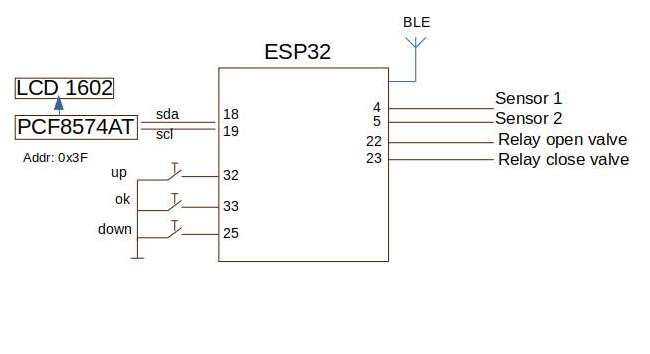
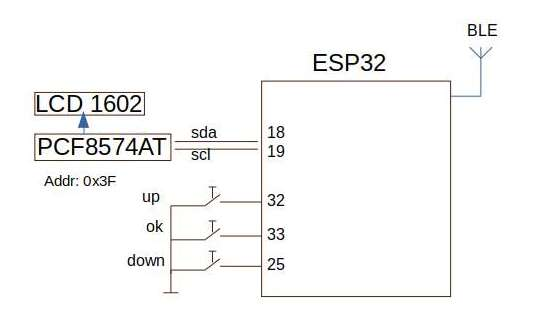
edit img and edit Lcd_display

Changed region(s): [[0.0, 0.0299, 0.9652, 0.8955], [0.1868, 0.7164, 0.2179, 0.7463]]

diff --git a/main/main.c b/main/main.c
@@ -88,7 +88,53 @@ static void IRAM_ATTR gpio_isr_handler(void* arg)
 
 
 
+void DrawMenu(uint8_t state){
+	char menuItem1[] = "Sensors";
+	char menuItem2[] = "Ball valve";
+	char menuItem3[] = "Power";
+	char menuItem4[] = "Errors";
+	char menuItem11[] = "ws1";
+	char menuItem12[] = "ws2";
+	char menuItem13[] = "bs1";
+	char menuItem14[] = "bs2";
+	char menuItem15[] = "bs3";
 
+
+	ESP_LOGI(TAG, "[DrawMenu] state = %d", state);	
+	if(state==1){
+		LCD_setCursor(0, 0);
+		LCD_writeStr(menuItem1);
+		LCD_setCursor(14, 0);
+		LCD_writeStr("<-");
+		LCD_setCursor(0, 1);
+		LCD_writeStr(menuItem2);
+	}
+	else if(state==2){
+		LCD_setCursor(0, 0);
+		LCD_writeStr(menuItem1);
+		LCD_setCursor(0, 1);
+		LCD_writeStr(menuItem2);
+		LCD_setCursor(14, 1);
+		LCD_writeStr("<-");
+	}
+	else if(state==3){
+		LCD_setCursor(0, 0);
+		LCD_writeStr(menuItem3);
+		LCD_setCursor(14, 0);
+		LCD_writeStr("<-");
+		LCD_setCursor(0, 1);
+		LCD_writeStr(menuItem4);
+	}
+	else if(state==4){
+		LCD_setCursor(0, 0);
+		LCD_writeStr(menuItem3);
+		LCD_setCursor(0, 1);
+		LCD_writeStr(menuItem4);
+		LCD_setCursor(14, 1);
+		LCD_writeStr("<-");
+	}
+
+}
 
 
 
@@ -102,17 +148,7 @@ void LCD_Display(void* param)
     uint32_t io_num;
 	portBASE_TYPE xStatusReceive;
 	uint8_t state = 1;
-	char menuItem1[] = "Sensors";
-	char menuItem2[] = "Ball valve";
-	char menuItem3[] = "Power";
-	char menuItem4[] = "Errors";
-	char menuItem11[] = "ws1";
-	char menuItem12[] = "ws2";
-	char menuItem13[] = "bs1";
-	char menuItem14[] = "bs2";
-	char menuItem15[] = "bs3";
 	uint8_t change = 1;
-	uint8_t cursor = 1;
 
 
     LCD_home();
@@ -132,13 +168,11 @@ void LCD_Display(void* param)
 			switch(io_num){
 				case 25: //down
 					gpio_set_intr_type(GPIO_DOWN, GPIO_INTR_NEGEDGE);
-					ESP_LOGI(TAG, "[LCD Display] DOWN pressed");	
-					cursor++;
+					ESP_LOGI(TAG, "[LCD Display] DOWN pressed");
 					break;
 				case 32: //up
 					gpio_set_intr_type(GPIO_UP, GPIO_INTR_NEGEDGE);
-					ESP_LOGI(TAG, "[LCD Display] UP pressed");	
-					cursor--;
+					ESP_LOGI(TAG, "[LCD Display] UP pressed");
 					break;
 				case 33: //OK
 					gpio_set_intr_type(GPIO_OK, GPIO_INTR_NEGEDGE);
@@ -146,77 +180,46 @@ void LCD_Display(void* param)
 					break;
 			}
 		}
-		if(cursor>4) cursor = 4;
-		else if (cursor<1) cursor = 1;
 
 
 		if(change){
 			LCD_clearScreen();
-			ESP_LOGI(TAG, "[LCD Display] cursor = %d", cursor);	
 			ESP_LOGI(TAG, "[LCD Display] state = %d", state);	
+			switch(state){
+				case 1:
+					if(io_num == 25) {
+						state = 2;
+					}
+					DrawMenu(state);
+					break;
+				case 2:
+					DrawMenu(state);
+					if(io_num == 25){
+				   		state = 3;
+					}
+					else if (io_num == 32){
+				   		state = 1;
+					}
+					break;
+				case 3:
+					DrawMenu(state);
+					if(io_num == 25){
+				   		state = 4;
+					}
+					else if(io_num == 32) {
+						state = 2;
+					}
+					break;
+				case 4:
+					DrawMenu(state);
+					if(io_num == 32){
+				   		state = 3;
+					}
+					break;
+			}
 			change = 0;
 		}	
 		
-
-		ESP_LOGI(TAG, "[LCD Display] state = %d", state);	
-		switch(state){
-			case 1:
-				LCD_setCursor(0, 0);
-				LCD_writeStr(menuItem1);
-				LCD_setCursor(14, 0);
-				LCD_writeStr("<-");
-				LCD_setCursor(0, 1);
-				LCD_writeStr(menuItem2);
-				if(io_num == 25) {
-					LCD_clearScreen();
-					state = 2;
-				}
-				break;
-			case 2:
-				LCD_setCursor(0, 0);
-				LCD_writeStr(menuItem1);
-				LCD_setCursor(0, 1);
-				LCD_writeStr(menuItem2);
-				LCD_setCursor(14, 1);
-				LCD_writeStr("<-");
-				if(io_num == 25){
-				   	state = 3;
-					LCD_clearScreen();
-				}
-				else if (io_num == 32){
-				   	state = 1;
-					LCD_clearScreen();
-				}
-				break;
-			case 3:
-				LCD_setCursor(0, 0);
-				LCD_writeStr(menuItem3);
-				LCD_setCursor(14, 0);
-				LCD_writeStr("<-");
-				LCD_setCursor(0, 1);
-				LCD_writeStr(menuItem4);
-				if(io_num == 25){
-				   	state = 4;
-					LCD_clearScreen();
-				}
-				else if(io_num == 32) {
-					state = 2;
-					LCD_clearScreen();
-				}
-				break;
-			case 4:
-				LCD_setCursor(0, 0);
-				LCD_writeStr(menuItem3);
-				LCD_setCursor(0, 1);
-				LCD_writeStr(menuItem4);
-				LCD_setCursor(14, 1);
-				LCD_writeStr("<-");
-				if(io_num == 32){
-				   	state = 3;
-					LCD_clearScreen();
-				}
-				break;
-		}
 	}
 }
 
